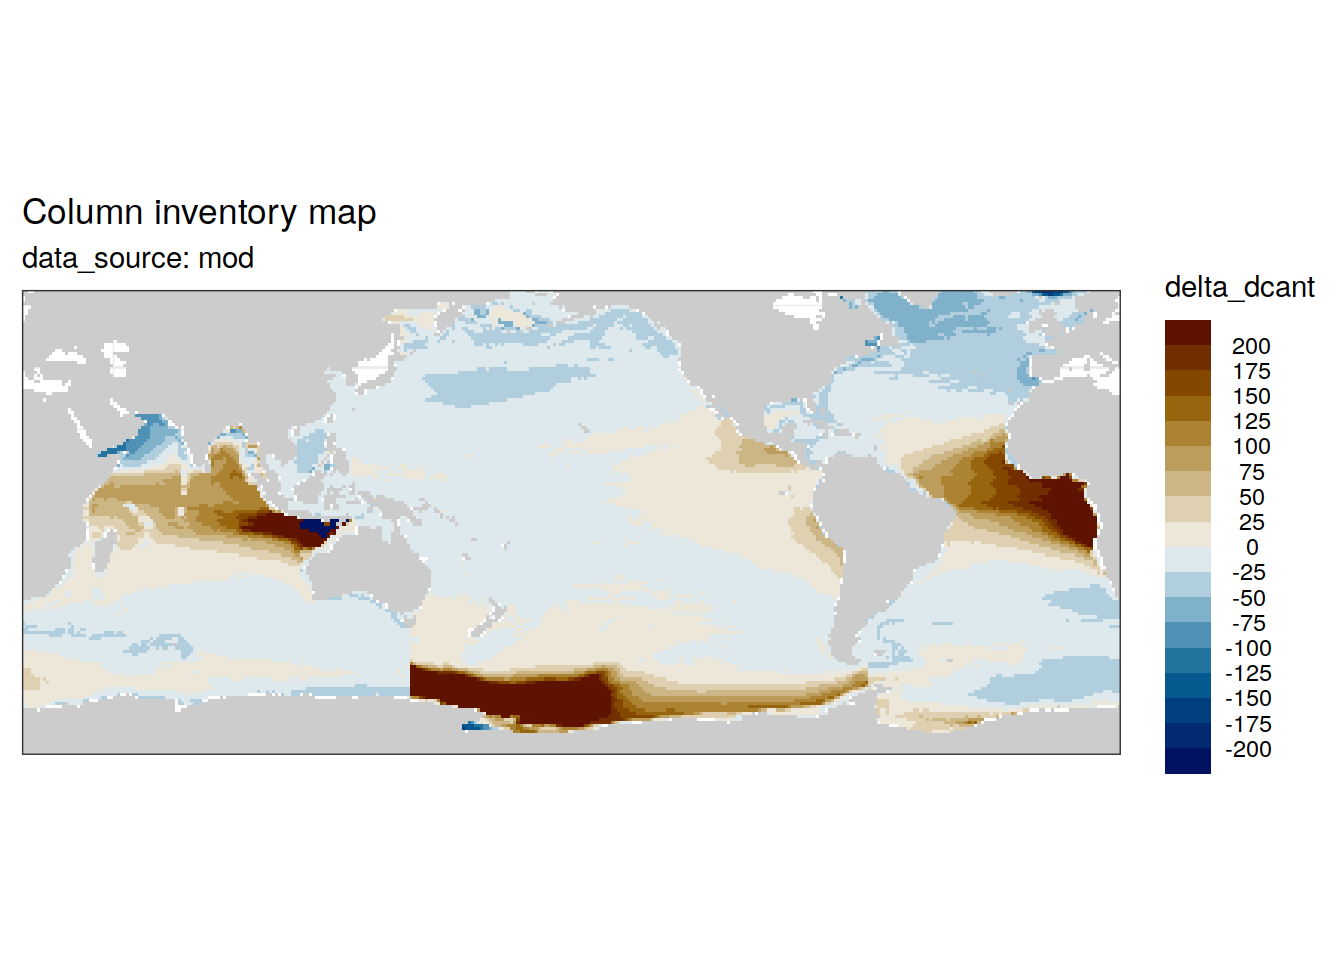
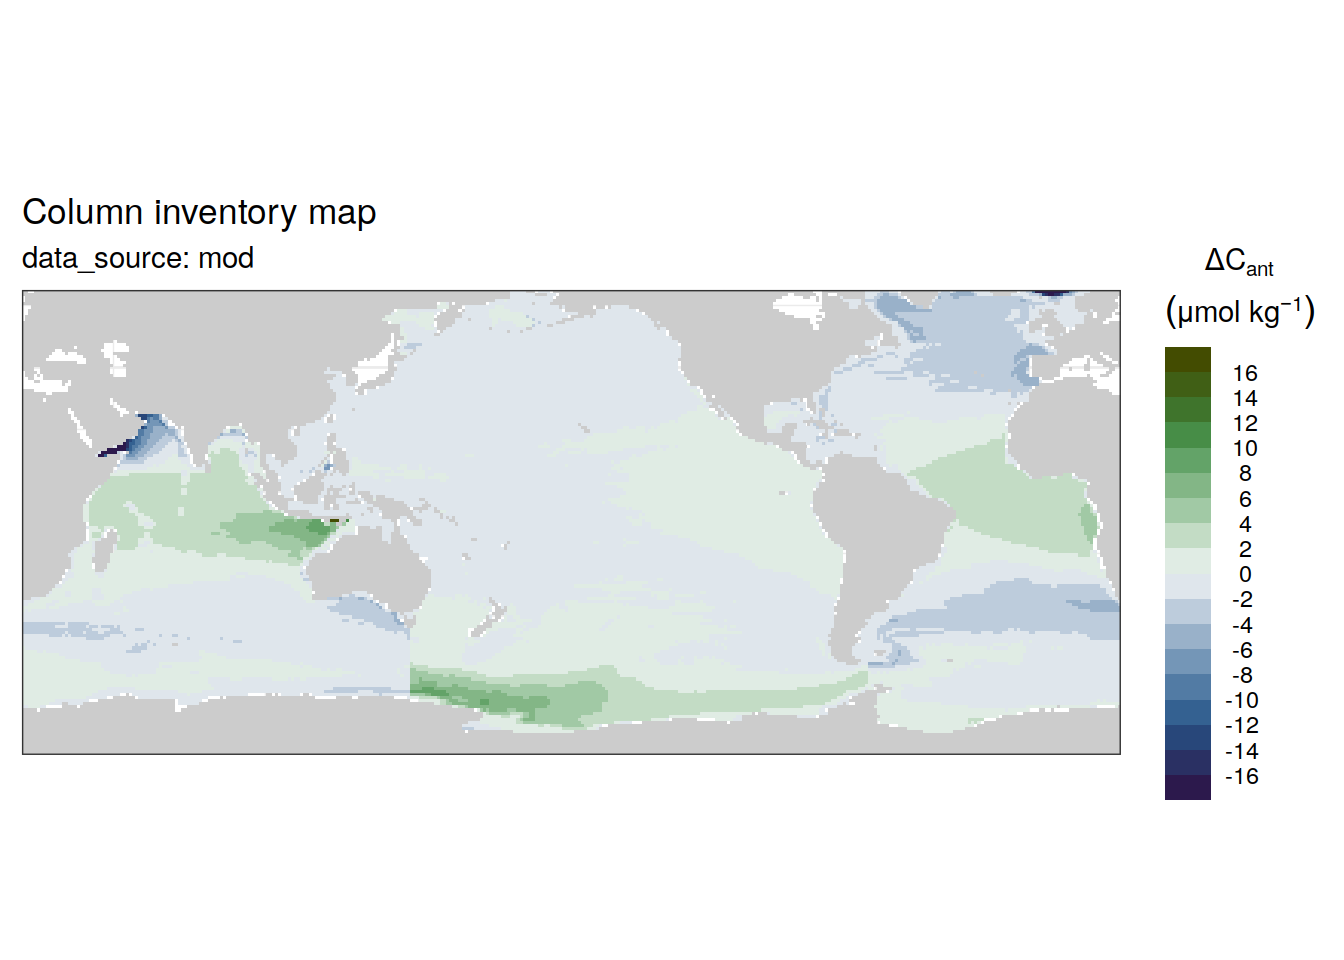
Build site.

diff --git a/docs/results_publication.html b/docs/results_publication.html
@@ -645,16 +645,16 @@ This reproducible <a href="http://rmarkdown.rstudio.com">R Markdown</a> analysis
 <div class="panel panel-default">
 <div class="panel-heading">
 <p class="panel-title">
-<a data-toggle="collapse" data-parent="#workflowr-checks" href="#strongRepositoryversionstrongahrefhttpsgithubcomjensdanielmuelleremlrobsanalysistree5dd3d7a55b687f9ea96f69fc7a499fe021ff1281targetblank5dd3d7aa"> <span class="glyphicon glyphicon-ok text-success" aria-hidden="true"></span> <strong>Repository version:</strong> <a href="https://github.com/jens-daniel-mueller/emlr_obs_analysis/tree/5dd3d7a55b687f9ea96f69fc7a499fe021ff1281" target="_blank">5dd3d7a</a> </a>
+<a data-toggle="collapse" data-parent="#workflowr-checks" href="#strongRepositoryversionstrongahrefhttpsgithubcomjensdanielmuelleremlrobsanalysistree2c82651c2a25c9e6501088aef8edae07e3f1e36ctargetblank2c82651a"> <span class="glyphicon glyphicon-ok text-success" aria-hidden="true"></span> <strong>Repository version:</strong> <a href="https://github.com/jens-daniel-mueller/emlr_obs_analysis/tree/2c82651c2a25c9e6501088aef8edae07e3f1e36c" target="_blank">2c82651</a> </a>
 </p>
 </div>
[2 lines of base64/hex data omitted]
 <div class="panel-body">
 <p>
 Great! You are using Git for version control. Tracking code development and connecting the code version to the results is critical for reproducibility.
 </p>
 <p>
-The results in this page were generated with repository version <a href="https://github.com/jens-daniel-mueller/emlr_obs_analysis/tree/5dd3d7a55b687f9ea96f69fc7a499fe021ff1281" target="_blank">5dd3d7a</a>. See the <em>Past versions</em> tab to see a history of the changes made to the R Markdown and HTML files.
+The results in this page were generated with repository version <a href="https://github.com/jens-daniel-mueller/emlr_obs_analysis/tree/2c82651c2a25c9e6501088aef8edae07e3f1e36c" target="_blank">2c82651</a>. See the <em>Past versions</em> tab to see a history of the changes made to the R Markdown and HTML files.
 </p>
 <p>
 Note that you need to be careful to ensure that all relevant files for the analysis have been committed to Git prior to generating the results (you can use <code>wflow_publish</code> or <code>wflow_git_commit</code>). workflowr only checks the R Markdown file, but you know if there are other scripts or data files that it depends on. Below is the status of the Git repository when the results were generated:
@@ -704,6 +704,40 @@ Message
 </tr>
 </thead>
 <tbody>
+<tr>
+<td>
+Rmd
+</td>
+<td>
+<a href="https://github.com/jens-daniel-mueller/emlr_obs_analysis/blob/2c82651c2a25c9e6501088aef8edae07e3f1e36c/analysis/results_publication.Rmd" target="_blank">2c82651</a>
+</td>
+<td>
+jens-daniel-mueller
+</td>
+<td>
+2022-01-21
+</td>
+<td>
+added map of scaled absolute change
+</td>
+</tr>
+<tr>
+<td>
+html
+</td>
+<td>
+<a href="https://rawcdn.githack.com/jens-daniel-mueller/emlr_obs_analysis/c0807e80a1325a9e4722761cb3760d92afa317fd/docs/results_publication.html" target="_blank">c0807e8</a>
+</td>
+<td>
+jens-daniel-mueller
+</td>
+<td>
+2022-01-21
+</td>
+<td>
+Build site.
+</td>
+</tr>
 <tr>
 <td>
 Rmd
@@ -1629,15 +1663,24 @@ jens-daniel-mueller
 </table>
 </div>
 </div>
-<pre class="r"><code>left_join(dcant_inv_all,
-          dcant_budget_global_all %&gt;% rename(dcant_budget = dcant)) %&gt;%
-  filter(data_source %in% c(&quot;mod&quot;, &quot;obs&quot;),
+<pre class="r"><code>dcant_budget_scaling &lt;- dcant_budget_global_all %&gt;%
+  filter(#data_source %in% c(&quot;mod&quot;, &quot;obs&quot;),
          period != &quot;1994 - 2014&quot;) %&gt;%
-  mutate(dcant = dcant / dcant_budget) %&gt;%
-  select(data_source, lon, lat, basin_AIP, period, dcant) %&gt;% 
+  select(data_source, period, dcant) %&gt;%
   pivot_wider(names_from = period,
               values_from = dcant) %&gt;% 
-  mutate(delta_dcant = 100*(`2004 - 2014` / `1994 - 2004`)-100) %&gt;% 
+  mutate(dcant_scaling = `2004 - 2014` / `1994 - 2004`) %&gt;% 
+  select(data_source, dcant_scaling)
+
+
+left_join(dcant_inv_all,
+          dcant_budget_scaling) %&gt;%
+  filter(#data_source %in% c(&quot;mod&quot;, &quot;obs&quot;),
+         period != &quot;1994 - 2014&quot;) %&gt;%
+  select(data_source, lon, lat, basin_AIP, period, dcant, dcant_scaling) %&gt;% 
+  pivot_wider(names_from = period,
+              values_from = dcant) %&gt;% 
+  mutate(delta_dcant = `2004 - 2014` - `1994 - 2004`*dcant_scaling) %&gt;% 
   group_by(data_source) %&gt;%
   group_split() %&gt;%
   # head(1) %&gt;%
@@ -1646,16 +1689,93 @@ jens-daniel-mueller
                      var = &quot;delta_dcant&quot;,
                      subtitle_text = paste(&quot;data_source:&quot;,
                                            unique(.x$data_source)),
-                     col = &quot;bias_ratio&quot;) +
+                     col = &quot;divergent&quot;) +
       # facet_grid(period ~ .) +
       theme(axis.text = element_blank(),
             axis.ticks = element_blank())
   )</code></pre>
 <pre><code>[[1]]</code></pre>
 <p><img src="figure/results_publication.Rmd/cases_absolute_delta_scaled-1.png" width="672" style="display: block; margin: auto;" /></p>
+<p>
+<button type="button" class="btn btn-default btn-xs btn-workflowr btn-workflowr-fig" data-toggle="collapse" data-target="#fig-cases_absolute_delta_scaled-1">
+Past versions of cases_absolute_delta_scaled-1.png
+</button>
+</p>
+<div id="fig-cases_absolute_delta_scaled-1" class="collapse">
+<div class="table-responsive">
+<table class="table table-condensed table-hover">
+<thead>
+<tr>
+<th>
+Version
+</th>
+<th>
+Author
+</th>
+<th>
+Date
+</th>
+</tr>
+</thead>
+<tbody>
+<tr>
+<td>
+<a href="https://github.com/jens-daniel-mueller/emlr_obs_analysis/blob/c0807e80a1325a9e4722761cb3760d92afa317fd/docs/figure/results_publication.Rmd/cases_absolute_delta_scaled-1.png" target="_blank">c0807e8</a>
+</td>
+<td>
+jens-daniel-mueller
+</td>
+<td>
+2022-01-21
+</td>
+</tr>
+</tbody>
+</table>
+</div>
+</div>
 <pre><code>
 [[2]]</code></pre>
 <p><img src="figure/results_publication.Rmd/cases_absolute_delta_scaled-2.png" width="672" style="display: block; margin: auto;" /></p>
+<p>
+<button type="button" class="btn btn-default btn-xs btn-workflowr btn-workflowr-fig" data-toggle="collapse" data-target="#fig-cases_absolute_delta_scaled-2">
+Past versions of cases_absolute_delta_scaled-2.png
+</button>
+</p>
+<div id="fig-cases_absolute_delta_scaled-2" class="collapse">
+<div class="table-responsive">
+<table class="table table-condensed table-hover">
+<thead>
+<tr>
+<th>
+Version
+</th>
+<th>
+Author
+</th>
+<th>
+Date
+</th>
+</tr>
+</thead>
+<tbody>
+<tr>
+<td>
+<a href="https://github.com/jens-daniel-mueller/emlr_obs_analysis/blob/c0807e80a1325a9e4722761cb3760d92afa317fd/docs/figure/results_publication.Rmd/cases_absolute_delta_scaled-2.png" target="_blank">c0807e8</a>
+</td>
+<td>
+jens-daniel-mueller
+</td>
+<td>
+2022-01-21
+</td>
+</tr>
+</tbody>
+</table>
+</div>
+</div>
+<pre><code>
+[[3]]</code></pre>
+<p><img src="figure/results_publication.Rmd/cases_absolute_delta_scaled-3.png" width="672" style="display: block; margin: auto;" /></p>
 </div>
 <div id="dcant-pos" class="section level3" number="2.1.2">
 <h3><span class="header-section-number">2.1.2</span> dcant pos</h3>
